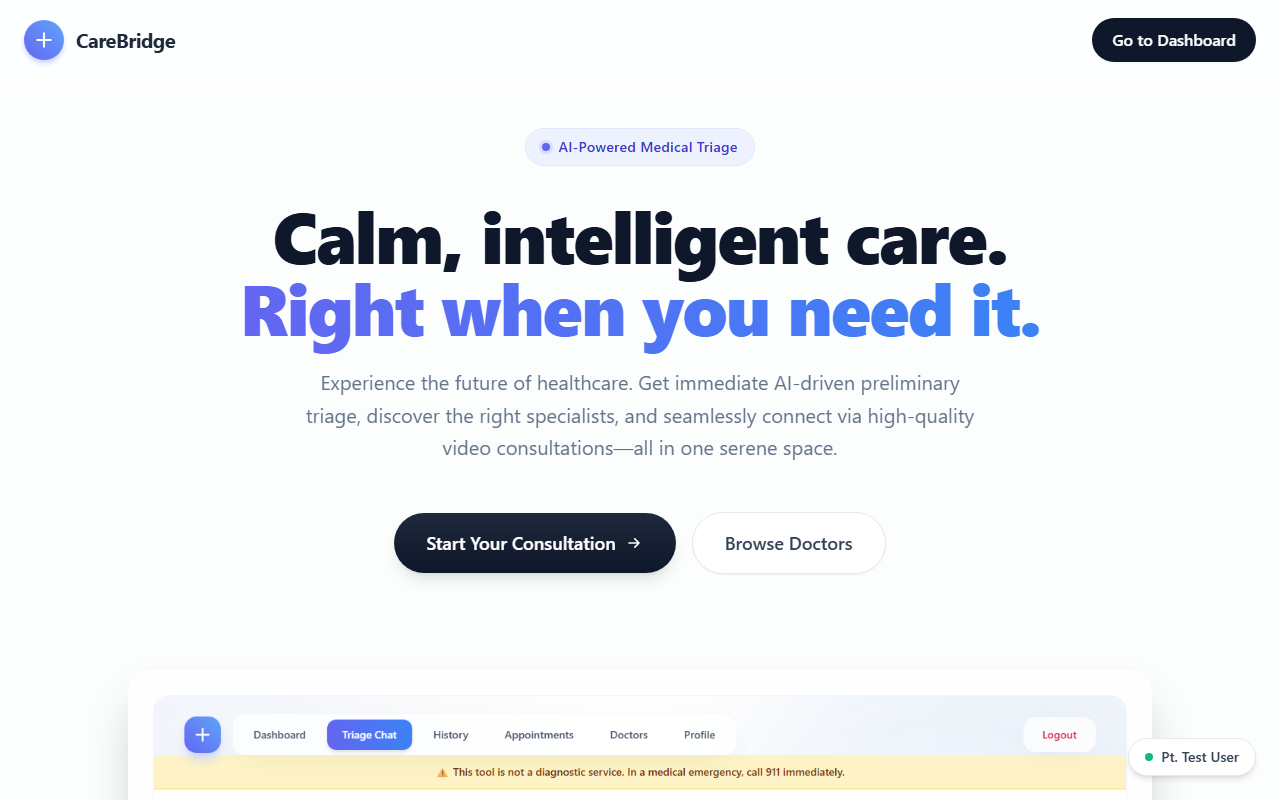
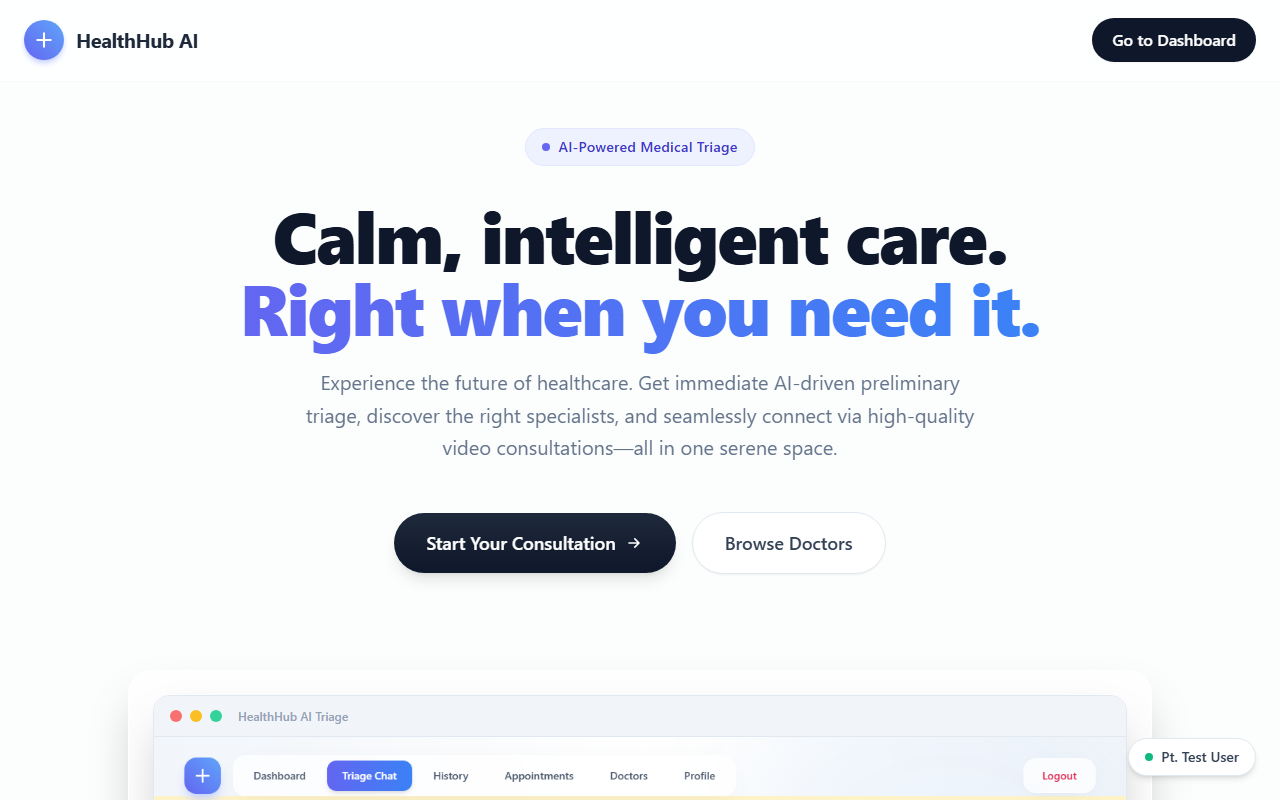
Fix UI screenshots and title to HealthHub AI

Changed region(s): [[0.0938, 0.875, 0.9062, 1.0], [0.0625, 0.0312, 0.1562, 0.0625]]

diff --git a/frontend/index.html b/frontend/index.html
@@ -4,7 +4,7 @@
     <meta charset="UTF-8" />
     <link rel="icon" type="image/svg+xml" href="/favicon.svg" />
     <meta name="viewport" content="width=device-width, initial-scale=1.0" />
-    <title>frontend</title>
+    <title>HealthHub AI</title>
   </head>
   <body>
     <div id="root"></div>